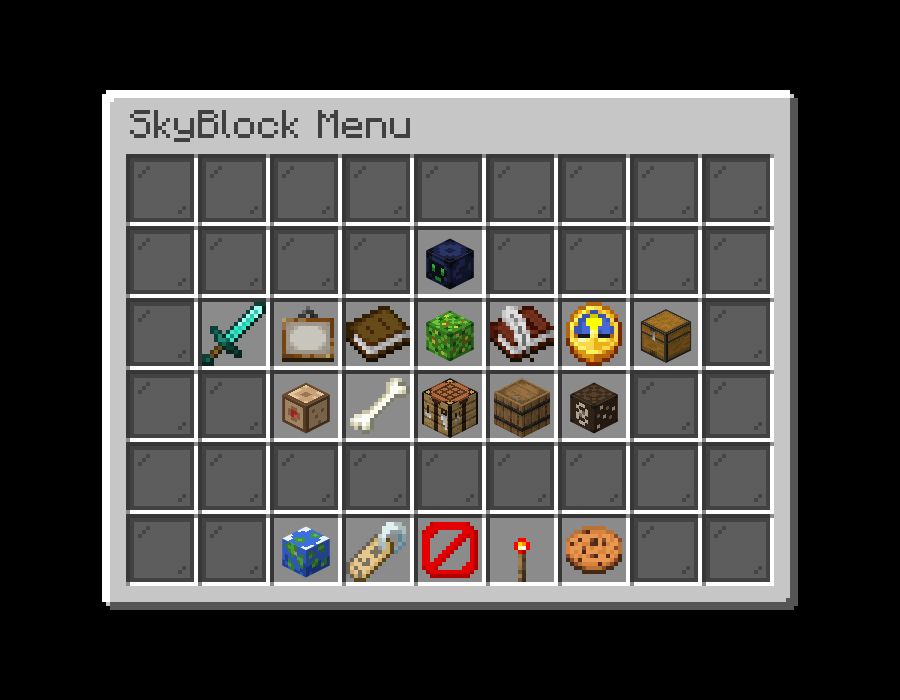
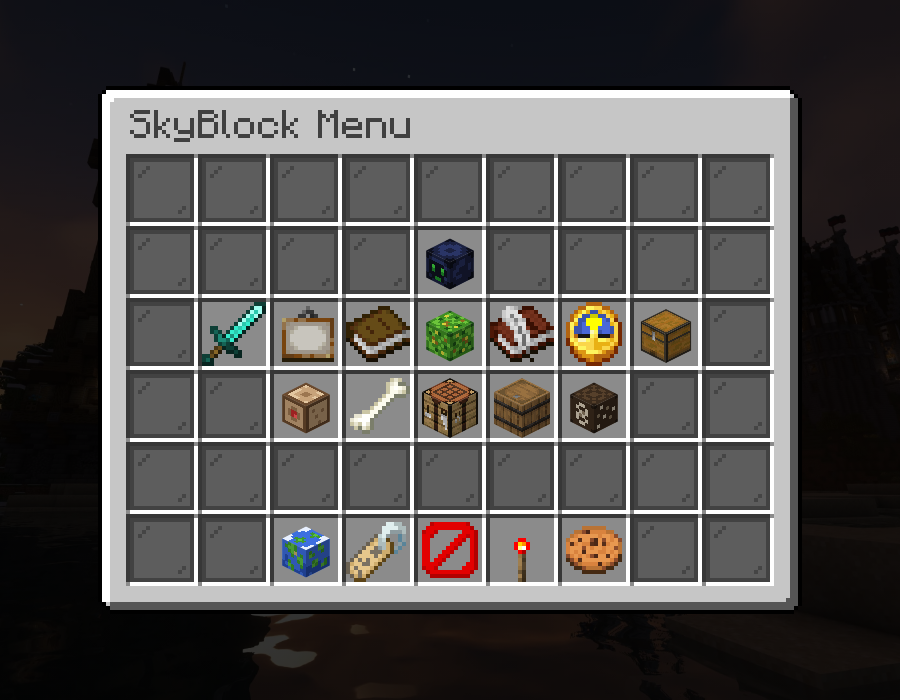
Ajoute l'arrière-plan Minecraft assombri derrière l'interface
Claude-Session: https://claude.ai/code/session_019gCBZ2Dy19V3W7UiEquzyT

diff --git a/index.html b/index.html
@@ -5,10 +5,20 @@
 <meta name="viewport" content="width=device-width, initial-scale=1">
 <title>SkyBlock Menu</title>
 <style>
+  html {
+    background: #000;
+  }
   html, body {
     margin: 0;
     height: 100%;
-    background: #000;
+  }
+  body::before {
+    content: '';
+    position: fixed;
+    inset: 0;
+    z-index: -1;
+    background: linear-gradient(rgba(0, 0, 0, 0.8), rgba(0, 0, 0, 0.8)),
+                url('assets/background.webp') center / cover no-repeat;
   }
   body {
     display: flex;
